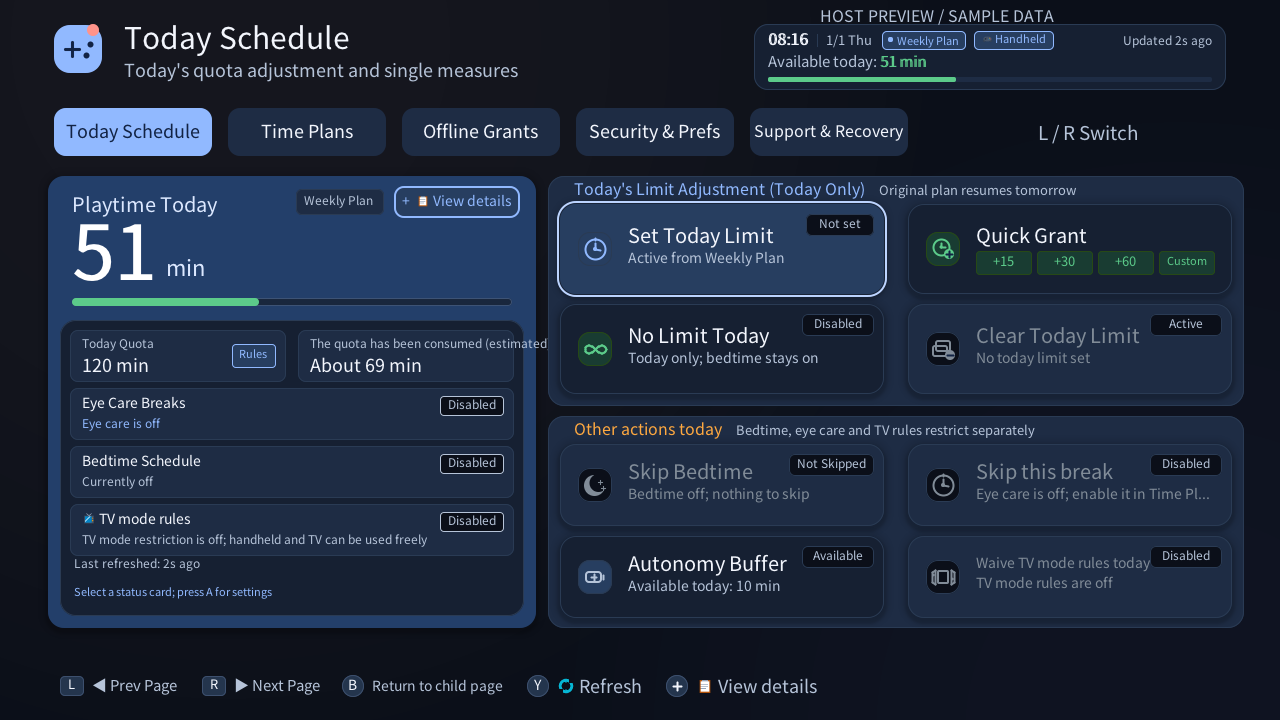
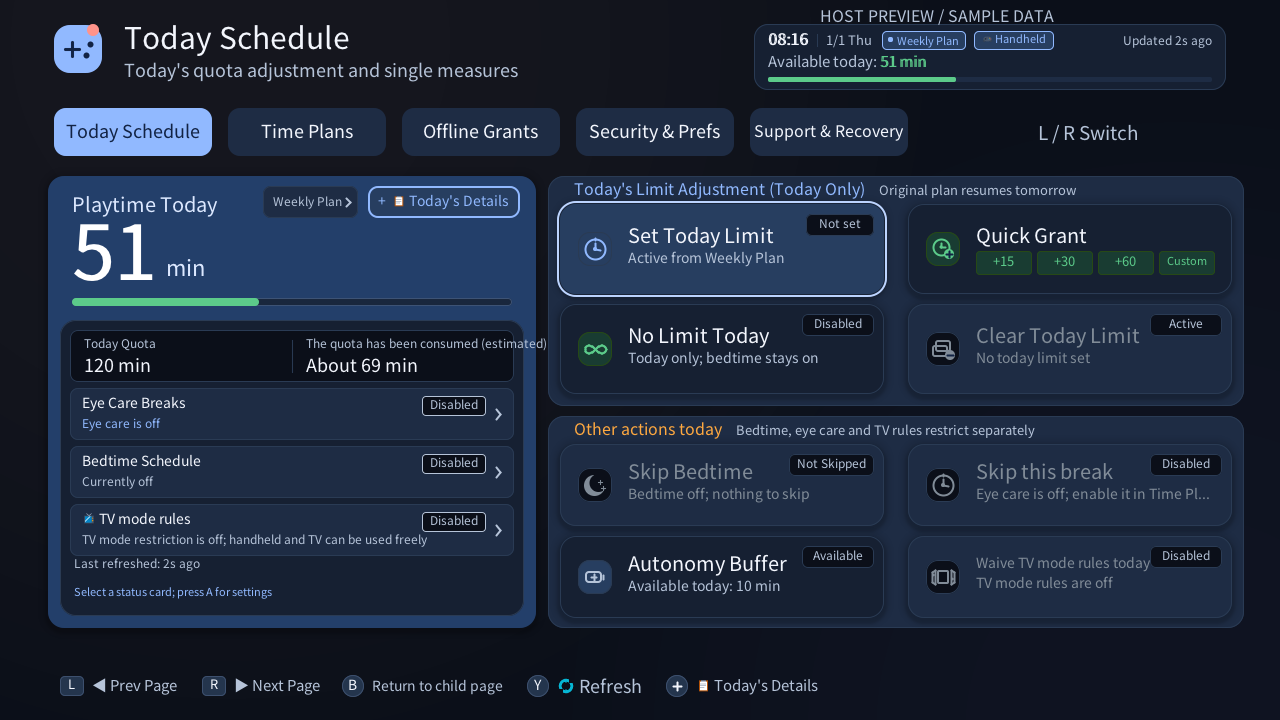
refactor(ui): 重构今日调度左侧看板并聚合操作入口
- 将今日额度与额度已耗(估算)重构为一体化只读信息槽，移除内嵌的冗余规则小按钮
- 将护眼、就寝与电视模式下钻入口强化为显式操作卡，增加矢量右箭头引导
- 解除额度卡触控与焦点伪装，理顺左侧信息层与操作层视觉层级
- 同步自动化测试断言、使用指南与中英文深色 UI 预览截图

diff --git a/companion/nro/ui_render_pages.c b/companion/nro/ui_render_pages.c
@@ -65,6 +65,12 @@ static const UiAction RECONFIRM_ENVIRONMENT_ACTION = {
     PTC_UI_TEXT_REFERENCE(PTC_UI_T_RECHECK_AND_ENABLE), PTC_UI_TEXT_REFERENCE(PTC_UI_T_ENVIRONMENT_CHANGES_RESUME_QUOTA_MANAGEMENT_AFTER_CONFIRMING), UI_WARNING,
     UI_ACTION_ICON_REPAIR, UI_ACTION_VISUAL_NONE
 };
+static void draw_chevron_right(uint32_t *pixels, uint32_t stride, int cx, int cy, int size, uint32_t color)
+{
+    draw_line(pixels, stride, cx - size / 2, cy - size, cx + size / 2, cy, 2, color);
+    draw_line(pixels, stride, cx + size / 2, cy, cx - size / 2, cy + size, 2, color);
+}
+
 static void draw_parent_home_summary(uint32_t *pixels, uint32_t stride, const PtcUiModel *model)
 {
     UiRect box = to_uirect(ptc_ui_home_summary_rect(true));
@@ -89,19 +95,19 @@ static void draw_parent_home_summary(uint32_t *pixels, uint32_t stride, const Pt
         (eye_resting ? ptc_ui_text(PTC_UI_T_EYE_CARE_RESTING) : ptc_ui_text(PTC_UI_T_PLAYTIME_TODAY));
     draw_text(pixels, stride, x, box.y + 36, header_title, 20, UI_RGB(UI_BLENDED(hero_secondary)));
 
-    /* 右上操作区：[ 规则状态标签 ] 与 [+ 查看详情] 交互胶囊按钮 */
+    /* 右上操作区：[ 规则来源状态标签 ] 与 [+ 今日安排详情] 交互胶囊按钮 */
     PtcUiRect dt_rect = ptc_ui_home_details_rect(true);
     UiRect dt_box = to_uirect(dt_rect);
     bool details_disabled = model->waiting;
 
-    /* 查看详情交互胶囊按钮：高对比度微胶囊、醒目描边与居中图文 */
+    /* 今日安排详情交互胶囊按钮：高对比度微胶囊、醒目描边与居中图文 */
     fill_round_rect(pixels, stride, dt_box, 10, details_disabled ? UI_RAISED : UI_ACCENT_SOFT);
     draw_rect_outline(pixels, stride, dt_box, 10, 2, details_disabled ? UI_BORDER : UI_ACCENT);
     draw_text_center(pixels, stride, dt_box, ptc_ui_text(PTC_UI_T_VIEW_DETAILS), 14,
                      details_disabled ? UI_DISABLED : UI_ACCENT);
 
-    /* 规则来源标签：次级信息胶囊，清晰区分于操作按钮 */
-    char rule_label[64], rule_btn[96];
+    /* 规则来源标签：下钻属性明确，支持手柄焦点与触控直达规则裁决 */
+    char rule_label[64];
     if (bedtime_enforcing) {
         snprintf(rule_label, sizeof(rule_label), "%s", ptc_ui_text(PTC_UI_T_BEDTIME_ACTIVE));
     } else if (model->unrestricted_today == 1 || model->eye_care_unlimited_capped) {
@@ -110,13 +116,15 @@ static void draw_parent_home_summary(uint32_t *pixels, uint32_t stride, const Pt
         snprintf(rule_label, sizeof(rule_label), "%s",
                  model->status_loaded ? ui_rule_source_label(model->rule_source) : ptc_ui_text(PTC_UI_T_RULE_TO_CONFIRM));
     }
-    snprintf(rule_btn, sizeof(rule_btn), "%s ❯", rule_label);
-    int rw = measure_text(rule_btn, 12) + 16;
-    if (rw < 68) rw = 68;
-    UiRect rule_badge = {dt_box.x - rw - 10, dt_box.y + 3, rw, dt_box.height - 6};
-    fill_round_rect(pixels, stride, rule_badge, 6, UI_RGB(UI_BLENDED(surface_raised)));
-    draw_rect_outline(pixels, stride, rule_badge, 6, 1, UI_BORDER);
-    draw_text_center(pixels, stride, rule_badge, rule_btn, 12, UI_RGB(UI_BLENDED(text_secondary)));
+    int rw = measure_text(rule_label, 12) + 26;
+    if (rw < 72) rw = 72;
+    UiRect rule_badge = {dt_box.x - rw - 10, dt_box.y, rw, dt_box.height};
+    bool rule_focused = (model->selected_index == 11 && !model->parent_footer_focused);
+    fill_round_rect(pixels, stride, rule_badge, 8, rule_focused ? UI_ACCENT_SOFT : UI_RGB(UI_BLENDED(surface_raised)));
+    draw_rect_outline(pixels, stride, rule_badge, 8, rule_focused ? 3 : 1, rule_focused ? UI_FOCUS : UI_BORDER);
+    uint32_t rule_fg = rule_focused ? UI_ACCENT : UI_RGB(UI_BLENDED(text_secondary));
+    draw_text(pixels, stride, rule_badge.x + 10, rule_badge.y + (rule_badge.height + 12) / 2 - 2, rule_label, 12, rule_fg);
+    draw_chevron_right(pixels, stride, rule_badge.x + rule_badge.width - 10, rule_badge.y + rule_badge.height / 2, 4, rule_fg);
 
     /* 主数值：剩余分钟数 */
     int minutes;
@@ -189,49 +197,45 @@ static void draw_parent_home_summary(uint32_t *pixels, uint32_t stride, const Pt
     fill_round_rect(pixels, stride, lower, 16, UI_SURFACE);
     draw_rect_outline(pixels, stride, lower, 16, 1, UI_BORDER);
 
-    /* 周期 1：双列额度流指标卡 */
-    UiRect left_card = {lower.x + 10, lower.y + 10, 216, 52};
-    UiRect right_card = {lower.x + 238, lower.y + 10, 216, 52};
-    fill_round_rect(pixels, stride, left_card, 8, UI_RAISED);
-    draw_rect_outline(pixels, stride, left_card, 8, 1, UI_BORDER);
-    fill_round_rect(pixels, stride, right_card, 8, UI_RAISED);
-    draw_rect_outline(pixels, stride, right_card, 8, 1, UI_BORDER);
+    /* 周期 1：今日额度与用量看板（一体化纯信息看板，无按钮化独立卡片，不可获焦） */
+    UiRect info_shelf = {lower.x + 10, lower.y + 10, lower.width - 20, 52};
+    fill_round_rect(pixels, stride, info_shelf, 8, UI_RGB(UI_BLENDED(page_bg)));
+    draw_rect_outline(pixels, stride, info_shelf, 8, 1, UI_BORDER);
+
+    int mid_x = info_shelf.x + info_shelf.width / 2;
+    draw_line(pixels, stride, mid_x, info_shelf.y + 10, mid_x, info_shelf.y + info_shelf.height - 10, 1, UI_BORDER);
 
     /* 左指标：今日总额度 */
-    draw_text(pixels, stride, left_card.x + 12, left_card.y + 18, ptc_ui_text(PTC_UI_T_TODAY_QUOTA), 12, UI_MUTED);
+    draw_text(pixels, stride, info_shelf.x + 14, info_shelf.y + 18, ptc_ui_text(PTC_UI_T_TODAY_QUOTA), 12, UI_MUTED);
     char total_str[64];
     ptc_ui_format_home_total_value(model, total_str, sizeof(total_str));
-    draw_text(pixels, stride, left_card.x + 12, left_card.y + 42, total_str, 18, UI_INK);
-
-    /* 规则决策快捷标签按钮 */
-    const char *tag_rules = ptc_ui_text(PTC_UI_T_VIEW_RULES);
-    int tr_w = measure_text(tag_rules, 11) + 14;
-    UiRect tag_rect = {left_card.x + left_card.width - tr_w - 10, left_card.y + 14, tr_w, 24};
-    fill_round_rect(pixels, stride, tag_rect, 4, UI_ACCENT_SOFT);
-    draw_rect_outline(pixels, stride, tag_rect, 4, 1, UI_ACCENT);
-    draw_text_center(pixels, stride, tag_rect, tag_rules, 11, UI_ACCENT);
+    draw_text(pixels, stride, info_shelf.x + 14, info_shelf.y + 42, total_str, 18, UI_INK);
 
     /* 右指标：已消耗估算 */
-    draw_text(pixels, stride, right_card.x + 12, right_card.y + 18, ptc_ui_text(PTC_UI_T_THE_QUOTA_HAS_BEEN_CONSUMED_ESTIMATED), 12, UI_MUTED);
+    draw_text(pixels, stride, mid_x + 14, info_shelf.y + 18, ptc_ui_text(PTC_UI_T_THE_QUOTA_HAS_BEEN_CONSUMED_ESTIMATED), 12, UI_MUTED);
     char played_str[64];
     if (!eye_resting && model->played_minutes_available && model->played_minutes >= 0)
         snprintf(played_str, sizeof(played_str), ptc_ui_text(PTC_UI_T_ABOUT_D_MIN), model->played_minutes);
     else
         snprintf(played_str, sizeof(played_str), "%s", ptc_ui_text(PTC_UI_T_NOT_AVAILABLE));
-    draw_text(pixels, stride, right_card.x + 12, right_card.y + 42, played_str, 18, UI_INK);
+    draw_text(pixels, stride, mid_x + 14, info_shelf.y + 42, played_str, 18, UI_INK);
 
-    /* 周期 2：护眼休息周期卡 */
+    /* 周期 2：护眼休息设置入口卡 */
     UiRect eye_card = to_uirect(ptc_ui_today_status_rect(8));
+    bool eye_focused = (model->selected_index == 8 && !model->parent_footer_focused);
     fill_round_rect(pixels, stride, eye_card, 8, UI_RAISED);
-    draw_rect_outline(pixels, stride, eye_card, 8, model->selected_index == 8 && !model->parent_footer_focused ? 3 : 1,
-        model->selected_index == 8 && !model->parent_footer_focused ? UI_FOCUS : eye_resting ? UI_DANGER : UI_BORDER);
+    draw_rect_outline(pixels, stride, eye_card, 8, eye_focused ? 3 : 1,
+        eye_focused ? UI_FOCUS : eye_resting ? UI_DANGER : UI_BORDER);
     draw_text(pixels, stride, eye_card.x + 12, eye_card.y + 20, ptc_ui_text(PTC_UI_T_EYE_CARE), 14, UI_INK);
     const char *eye_badge = !model->eye_care_policy.enabled ? ptc_ui_text(PTC_UI_T_DISABLED_2) :
         (eye_resting ? ptc_ui_text(PTC_UI_T_EYE_CARE_BADGE_RESTING) : ptc_ui_text(PTC_UI_T_ENABLED));
     uint32_t eye_badge_color = !model->eye_care_policy.enabled ? UI_MUTED : (eye_resting ? UI_DANGER : UI_SUCCESS);
     int eb_w = measure_text(eye_badge, 12) + 16;
     if (eb_w < 56) eb_w = 56;
-    UiRect eb_rect = {eye_card.x + eye_card.width - eb_w - 10, eye_card.y + 8, eb_w, 20};
+    int ch_x = eye_card.x + eye_card.width - 16;
+    int ch_y = eye_card.y + eye_card.height / 2;
+    draw_chevron_right(pixels, stride, ch_x, ch_y, 5, eye_focused ? UI_ACCENT : UI_MUTED);
+    UiRect eb_rect = {ch_x - 12 - eb_w, eye_card.y + 8, eb_w, 20};
     fill_round_rect(pixels, stride, eb_rect, 4, eye_badge_color == UI_DANGER ? UI_DANGER_SOFT : (eye_badge_color == UI_SUCCESS ? UI_SUCCESS_SOFT : UI_PAGE));
     draw_rect_outline(pixels, stride, eb_rect, 4, 1, eye_badge_color);
     draw_text_center(pixels, stride, eb_rect, eye_badge, 12, eye_badge_color);
@@ -245,11 +249,12 @@ static void draw_parent_home_summary(uint32_t *pixels, uint32_t stride, const Pt
     fit_text(fitted_cycle, sizeof(fitted_cycle), cycle, 12, eye_card.width - 24);
     draw_text(pixels, stride, eye_card.x + 12, eye_card.y + 40, fitted_cycle, 12, eye_resting ? UI_DANGER : UI_ACCENT);
 
-    /* 周期 3：就寝计划周期卡 */
+    /* 周期 3：就寝计划设置入口卡 */
     UiRect bedtime_card = to_uirect(ptc_ui_today_status_rect(9));
+    bool bedtime_focused = (model->selected_index == 9 && !model->parent_footer_focused);
     fill_round_rect(pixels, stride, bedtime_card, 8, UI_RAISED);
-    draw_rect_outline(pixels, stride, bedtime_card, 8, model->selected_index == 9 && !model->parent_footer_focused ? 3 : 1,
-        model->selected_index == 9 && !model->parent_footer_focused ? UI_FOCUS : bedtime_enforcing ? UI_DANGER : UI_BORDER);
+    draw_rect_outline(pixels, stride, bedtime_card, 8, bedtime_focused ? 3 : 1,
+        bedtime_focused ? UI_FOCUS : bedtime_enforcing ? UI_DANGER : UI_BORDER);
     draw_text(pixels, stride, bedtime_card.x + 12, bedtime_card.y + 20, ptc_ui_text(PTC_UI_T_BEDTIME_SCHEDULE), 14, UI_INK);
     bool bedtime_skip_matches = ptc_ui_bedtime_skip_matches_policy(model, &model->bedtime_policy);
     const char *bedtime_badge = !model->bedtime_policy.enabled ? ptc_ui_text(PTC_UI_T_DISABLED_2) :
@@ -259,7 +264,10 @@ static void draw_parent_home_summary(uint32_t *pixels, uint32_t stride, const Pt
         (bedtime_enforcing ? UI_DANGER : (bedtime_skip_matches ? UI_SUCCESS : UI_ACCENT));
     int bb_w = measure_text(bedtime_badge, 12) + 16;
     if (bb_w < 56) bb_w = 56;
-    UiRect bb_rect = {bedtime_card.x + bedtime_card.width - bb_w - 10, bedtime_card.y + 8, bb_w, 20};
+    int b_ch_x = bedtime_card.x + bedtime_card.width - 16;
+    int b_ch_y = bedtime_card.y + bedtime_card.height / 2;
+    draw_chevron_right(pixels, stride, b_ch_x, b_ch_y, 5, bedtime_focused ? UI_ACCENT : UI_MUTED);
+    UiRect bb_rect = {b_ch_x - 12 - bb_w, bedtime_card.y + 8, bb_w, 20};
     fill_round_rect(pixels, stride, bb_rect, 4, b_badge_color == UI_DANGER ? UI_DANGER_SOFT : (b_badge_color == UI_SUCCESS ? UI_SUCCESS_SOFT : UI_PAGE));
     draw_rect_outline(pixels, stride, bb_rect, 4, 1, b_badge_color);
     draw_text_center(pixels, stride, bb_rect, bedtime_badge, 12, b_badge_color);
@@ -291,11 +299,12 @@ static void draw_parent_home_summary(uint32_t *pixels, uint32_t stride, const Pt
     fit_text(fitted_bedtime, sizeof(fitted_bedtime), b_detail, 12, bedtime_card.width - 24);
     draw_text(pixels, stride, bedtime_card.x + 12, bedtime_card.y + 40, fitted_bedtime, 12, bedtime_enforcing ? UI_DANGER : UI_MUTED);
 
-    /* 周期 4：电视模式规则周期卡 */
+    /* 周期 4：电视模式规则设置入口卡 */
     UiRect dock_card = to_uirect(ptc_ui_today_status_rect(10));
+    bool dock_focused = (model->selected_index == 10 && !model->parent_footer_focused);
     fill_round_rect(pixels, stride, dock_card, 8, UI_RAISED);
-    draw_rect_outline(pixels, stride, dock_card, 8, model->selected_index == 10 && !model->parent_footer_focused ? 3 : 1,
-        model->selected_index == 10 && !model->parent_footer_focused ? UI_FOCUS : model->dock_restriction_active ? UI_DANGER : UI_BORDER);
+    draw_rect_outline(pixels, stride, dock_card, 8, dock_focused ? 3 : 1,
+        dock_focused ? UI_FOCUS : model->dock_restriction_active ? UI_DANGER : UI_BORDER);
     draw_text(pixels, stride, dock_card.x + 12, dock_card.y + 20, ptc_ui_text(PTC_UI_T_DOCK_TITLE), 14, UI_INK);
 
     bool dock_master = model->dock_policy.force_docked || model->dock_policy.undocked_limit_enabled;
@@ -324,7 +333,10 @@ static void draw_parent_home_summary(uint32_t *pixels, uint32_t stride, const Pt
 
     int b2_w = measure_text(dock_badge, 12) + 16;
     if (b2_w < 50) b2_w = 50;
-    UiRect b2_rect = {dock_card.x + dock_card.width - b2_w - 10, dock_card.y + 8, b2_w, 20};
+    int d_ch_x = dock_card.x + dock_card.width - 16;
+    int d_ch_y = dock_card.y + dock_card.height / 2;
+    draw_chevron_right(pixels, stride, d_ch_x, d_ch_y, 5, dock_focused ? UI_ACCENT : UI_MUTED);
+    UiRect b2_rect = {d_ch_x - 12 - b2_w, dock_card.y + 8, b2_w, 20};
     fill_round_rect(pixels, stride, b2_rect, 4, d_badge_color == UI_DANGER ? UI_DANGER_SOFT : (d_badge_color == UI_SUCCESS ? UI_SUCCESS_SOFT : (d_badge_color == UI_ACCENT ? UI_ACCENT_SOFT : UI_PAGE)));
     draw_rect_outline(pixels, stride, b2_rect, 4, 1, d_badge_color);
     draw_text_center(pixels, stride, b2_rect, dock_badge, 12, d_badge_color);

diff --git a/companion/nro/ui_navigation_state.c b/companion/nro/ui_navigation_state.c
@@ -150,7 +150,7 @@ void ptc_ui_move_parent_selection(PtcUiModel *model, int horizontal, int vertica
             ? index > count + model->recent_event_count
             : (model->parent_page == PTC_UI_PARENT_PLAN && model->plan_page == PTC_UI_PLAN_PAGE_ROOT && model->forecast_available
                 ? index > 13
-                : (model->parent_page == PTC_UI_PARENT_TODAY ? index > 10 :
+                : (model->parent_page == PTC_UI_PARENT_TODAY ? index > 11 :
                    (model->parent_page == PTC_UI_PARENT_PLAN && model->plan_page == PTC_UI_PLAN_PAGE_ROOT ? index >= 7 : index >= count))))) {
         index = 0;
     }
@@ -197,13 +197,19 @@ void ptc_ui_move_parent_selection(PtcUiModel *model, int horizontal, int vertica
     }
     if (model->parent_page == PTC_UI_PARENT_TODAY) {
         if (index >= 8) {
-            if (horizontal > 0) index = index == 8 ? 2 : index == 9 ? 4 : 5;
-            else if (vertical < 0 && index > 8) --index;
-            else if (vertical > 0 && index < 10) ++index;
+            if (horizontal > 0) index = (index == 11) ? 0 : (index == 8 ? 2 : (index == 9 ? 4 : 5));
+            else if (vertical < 0) {
+                if (index == 8) index = 11;
+                else if (index > 8 && index <= 10) --index;
+            }
             else if (vertical > 0) {
-                model->parent_content_selection = index;
-                model->parent_footer_focused = true;
-                model->parent_footer_selection = ptc_ui_parent_status_alert_visible(model) ? 1 : 0;
+                if (index == 11) index = 8;
+                else if (index < 10) ++index;
+                else {
+                    model->parent_content_selection = index;
+                    model->parent_footer_focused = true;
+                    model->parent_footer_selection = ptc_ui_parent_status_alert_visible(model) ? 1 : 0;
+                }
             }
             model->selected_index = index;
             return;
@@ -241,7 +247,8 @@ void ptc_ui_move_parent_selection(PtcUiModel *model, int horizontal, int vertica
                 model->parent_footer_selection = ptc_ui_parent_status_alert_visible(model) ? 1 : 0;
             }
         } else if (horizontal < 0) {
-            if (index == 0 || index == 2) index = 8;
+            if (index == 0) index = 11;
+            else if (index == 2) index = 8;
             else if (index == 4) index = 9;
             else if (index == 5) index = 10;
             else if (index == 1) index = 0;

diff --git a/tests/c/test_ui_state.c b/tests/c/test_ui_state.c
@@ -2408,7 +2408,7 @@ static void test_home_redesign(void)
         check_hit(hit_center(&model, ptc_ui_home_details_rect(parent)), PTC_UI_HIT_HOME_DETAILS, 0, "details touch entry");
         if (parent) {
             check_hit(hit_center(&model, ptc_ui_home_rules_rect()), PTC_UI_HIT_HOME_RULES, 0, "home rules touch entry");
-            check_hit(hit_center(&model, ptc_ui_today_quota_card_rect()), PTC_UI_HIT_HOME_RULES, 0, "quota card rules touch entry");
+            check_hit(hit_center(&model, ptc_ui_today_quota_card_rect()), PTC_UI_HIT_NONE, 0, "quota card is read-only telemetry");
         }
         check_true(ptc_ui_open_home_details(&model), "details open without a request");
         check_hit(hit_center(&model, ptc_ui_child_submit_rect()), PTC_UI_HIT_NONE, 0, "details block underlying input");
@@ -3893,7 +3893,16 @@ static void test_today_settings_links(void)
     }
     model.selected_index = 0;
     ptc_ui_move_parent_selection(&model, -1, 0);
-    check_int(model.selected_index, 8, "left from quota enters status column");
+    check_int(model.selected_index, 11, "left from quota enters rule source badge");
+    ptc_ui_move_parent_selection(&model, 1, 0);
+    check_int(model.selected_index, 0, "right from rule badge returns to quota card");
+    model.selected_index = 2;
+    ptc_ui_move_parent_selection(&model, -1, 0);
+    check_int(model.selected_index, 8, "left from unlimited quota enters status column");
+    ptc_ui_move_parent_selection(&model, 0, -1);
+    check_int(model.selected_index, 11, "up from eye care status reaches rule source badge");
+    ptc_ui_move_parent_selection(&model, 0, 1);
+    check_int(model.selected_index, 8, "down from rule badge returns to eye care status");
     ptc_ui_move_parent_selection(&model, 0, 1);
     check_int(model.selected_index, 9, "down traverses bedtime status");
     ptc_ui_move_parent_selection(&model, 0, 1);

diff --git a/companion/nro/ui_layout.c b/companion/nro/ui_layout.c
@@ -505,7 +505,7 @@ void ptc_ui_move_bedtime_focus(PtcUiModel *model, int horizontal, int vertical)
 
 PtcUiRect ptc_ui_home_details_rect(bool parent)
 {
-    return parent ? (PtcUiRect){394, 186, 126, 32} : (PtcUiRect){964, 366, 268, 106};
+    return parent ? (PtcUiRect){368, 186, 152, 32} : (PtcUiRect){964, 366, 268, 106};
 }
 
 PtcUiRect ptc_ui_home_rules_rect(void)
@@ -517,7 +517,7 @@ PtcUiRect ptc_ui_home_rules_rect(void)
 PtcUiRect ptc_ui_today_quota_card_rect(void)
 {
     PtcUiRect box = ptc_ui_home_summary_rect(true);
-    return (PtcUiRect){box.x + 22, box.y + 154, 216, 52};
+    return (PtcUiRect){box.x + 22, box.y + 154, box.w - 44, 52};
 }
 
 PtcUiRect ptc_ui_plan_today_rules_rect(void)

diff --git a/companion/nro/nro_action_dispatch.c b/companion/nro/nro_action_dispatch.c
@@ -205,6 +205,12 @@ void handle_parent_action(UiState *ui)
         return;
     }
     if (ptc_ui_open_today_settings(&ui->model, index)) return;
+    if (ui->model.parent_page == PTC_UI_PARENT_TODAY && index == 11) {
+        if (ui->waiting) return;
+        ptc_audio_play(PTC_SE_POPUP);
+        ptc_ui_open_home_details_page(&ui->model, 1);
+        return;
+    }
     if (ui->model.disable_flag_present && ui->model.parent_page == PTC_UI_PARENT_TODAY && index != 6 && index != 7) {
         snprintf(ui->model.message, sizeof(ui->model.message),
                  ptc_ui_text(PTC_UI_T_EMERGENCY_DEACTIVATION_IS_ENABLED_THIS_CONTROL_WRITE));

diff --git a/companion/nro/ui_hit_test.c b/companion/nro/ui_hit_test.c
@@ -435,8 +435,7 @@ PtcUiHit ptc_ui_hit_test_at(const PtcUiModel *model, int x, int y, int64_t now)
         return model->waiting ? make_hit(PTC_UI_HIT_NONE, 0) : make_hit(PTC_UI_HIT_HOME_DETAILS, 0);
     }
     if (model->view == PTC_UI_PARENT && model->parent_page == PTC_UI_PARENT_TODAY &&
-        (ptc_ui_rect_contains(ptc_ui_home_rules_rect(), x, y) ||
-         ptc_ui_rect_contains(ptc_ui_today_quota_card_rect(), x, y))) {
+        ptc_ui_rect_contains(ptc_ui_home_rules_rect(), x, y)) {
         return model->waiting ? make_hit(PTC_UI_HIT_NONE, 0) : make_hit(PTC_UI_HIT_HOME_RULES, 0);
     }
     if (model->view == PTC_UI_CHILD) {

diff --git a/companion/nro/nro_touch_input.c b/companion/nro/nro_touch_input.c
@@ -177,6 +177,7 @@ void handle_touch(UiState *ui, int x, int y)
         break;
     case PTC_UI_HIT_HOME_RULES:
         ptc_audio_play(PTC_SE_POPUP);
+        ui->model.selected_index = 11;
         ptc_ui_open_home_details_page(&ui->model, 1);
         break;
     case PTC_UI_HIT_HOME_DETAILS_ACTION:

diff --git a/docs/设计/协议.md b/docs/设计/协议.md
@@ -546,7 +546,7 @@ Companion NRO 孩子首页以“今天还可玩”为主信息，右侧提供输
 
 标准 Overlay 的高风险加时码兑换确认按钮及需长按的家长动作卡内部显示一秒进度；释放 `A`、取消、切换动作或离开页面立即清零，持续按住只提交一次。无需长按的动作不显示进度，高风险兑换仍只接受实体手柄长按，触摸确认仅提示使用手柄。此显示不改变请求协议、确认时长或 Device Lab 的两秒取证确认。
 
-家长“今日调度”页左侧显示额度摘要和详情入口，右侧以统一操作卡排列“设置今日总额度、快速加时、今日不限时、清除今日额度调整、跳过本次就寝、自主缓冲领取状态”。“设置今日总额度”必须显示动态状态与原因：生效中、会话内已清除、未设置、等待生效、状态待确认、控制已停用、恢复中或临时解除期间暂不计时；未设置时同时说明当前由指定日期额度、国家节假日或周计划中的哪一层生效。只有本次 NRO 会话已收到 `restore_today_policy` 成功结果时才显示“已清除”，不新增持久化历史；重启后规则不存在仍诚实显示“未设置”。新鲜状态确认没有 `today_override` 时清除卡使用禁用样式，手柄触发仅给出说明，不提交请求。快速加时先选 `+15/+30/+60/自定义` 再显示影响摘要并确认；自定义限制 1–120 分钟。清除操作只提交既有 `restore_today_policy` 并仅移除 `today_override`。“跳过本次就寝”卡只执行当前或下一个锁定实例的一次性跳过，不进入长期就寝计划管理；它固定执行状态刷新、锁定实例、再次验证管理 PIN、显示日期时间确认、提交 `skip_bedtime` 和刷新结果。状态新鲜度上限 120 秒，旧实例被后台拒绝时刷新并明确提示，不自动选择另一实例。`+` 或触摸“查看详情”打开今日详情；全局异常入口直接进入支持与恢复。
+家长“今日调度”页左侧显示额度摘要和详情入口，右侧以统一操作卡排列“设置今日总额度、快速加时、今日不限时、清除今日额度调整、跳过本次就寝、自主缓冲领取状态”。“设置今日总额度”必须显示动态状态与原因：生效中、会话内已清除、未设置、等待生效、状态待确认、控制已停用、恢复中或临时解除期间暂不计时；未设置时同时说明当前由指定日期额度、国家节假日或周计划中的哪一层生效。只有本次 NRO 会话已收到 `restore_today_policy` 成功结果时才显示“已清除”，不新增持久化历史；重启后规则不存在仍诚实显示“未设置”。新鲜状态确认没有 `today_override` 时清除卡使用禁用样式，手柄触发仅给出说明，不提交请求。快速加时先选 `+15/+30/+60/自定义` 再显示影响摘要并确认；自定义限制 1–120 分钟。清除操作只提交既有 `restore_today_policy` 并仅移除 `today_override`。“跳过本次就寝”卡只执行当前或下一个锁定实例的一次性跳过，不进入长期就寝计划管理；它固定执行状态刷新、锁定实例、再次验证管理 PIN、显示日期时间确认、提交 `skip_bedtime` 和刷新结果。状态新鲜度上限 120 秒，旧实例被后台拒绝时刷新并明确提示，不自动选择另一实例。`+` 或触摸“今日安排详情”打开今日详情；手柄选择按 A 或触摸右上规则来源胶囊直接打开规则裁决二级页；全局异常入口直接进入支持与恢复。
 
 今日额度编辑器的限时/不限时模式分别使用现有 `set_today_limit` 与 `disable_today_limit` 请求；快捷“今日不限时”仍可直达后者。不限时调整生效时今日额度卡显示“不限时”，快捷卡显示“已启用”。今日调度、时间计划的执行徽标只对新鲜状态宣称生效；过期时统一待确认。额度操作确认页提供手动刷新，且提交前再次读取 status 并重算影响；余额、已耗估算、规则来源或危险判定变化时重置长按进度，要求重新确认。刷新失败保留草稿且不得提交；刷新成功但已耗估算不可用时沿用未知风险长按规则。请求 schema 与 sysmodule 控制策略不变。
 

diff --git a/docs/使用/使用指南.md b/docs/使用/使用指南.md
@@ -206,10 +206,10 @@
 
 #### 查看今日详情
 
-在今日调度页按下手柄 `+` 键或触摸“+ 查看详情”，可打开全屏详情弹层，核对系统运作细节：
+在今日调度页按下手柄 `+` 键或触摸“+ 今日安排详情”，可打开全屏详情弹层，核对系统运作细节：
 
 - **当天规划与状态**：同时查看总余额、非电视余额、当前连续可用时间和健康规则。今日作息展示真实就寝时段；持续使用推演假设保持当前模式并按规定休息，不自动切换电视或领取缓冲。时刻为估算，实际以后台状态为准。
-- **查看决策与规则**：可直接触摸主页右上角的规则胶囊按钮（如 `[周计划 ❯]`）或左下“今日总额度”卡片的“规则 ❯”标签直达二级页；亦可在全屏详情首页右下角按 A 键进入。查看四级额度来源以及总额度、就寝、护眼、电视模式如何共同决定能否使用。展开“数据与运行状态”可查看 7/30 天估算与可靠天数、系统计时器；家长另可查看执行详情。在“时间计划”页亦可通过 7 日预测顶部的“今日决策与规则 ❯”快速调出核对。
+- **查看决策与规则**：可通过手柄移动焦点选择并按 A 或直接触摸主页右上角的规则胶囊按钮（如 `[周计划 ❯]`）直达二级页“规则裁决”，亦可在全屏详情首页右下角按 A 键进入。查看四级额度来源以及总额度、就寝、护眼、电视模式如何共同决定能否使用。展开“数据与运行状态”可查看 7/30 天估算与可靠天数、系统计时器；家长另可查看执行详情。在“时间计划”页亦可通过 7 日预测顶部的“今日决策与规则 ❯”快速调出核对。
 - 两页按 Y 刷新；二级页按 B 返回当天规划并恢复焦点，主页面按 B 返回今日调度。ZL/ZR 或触摸拖动滚动展开的数据。儿童详情只读且不显示家长执行资料。
 - 电视只计总额度；非电视同时计总额度和非电视限额。非电视限额不是额外额度；接电视可继续使用总余额，护眼与就寝仍生效。今日不限时、加时和自主缓冲不豁免健康规则。
 
